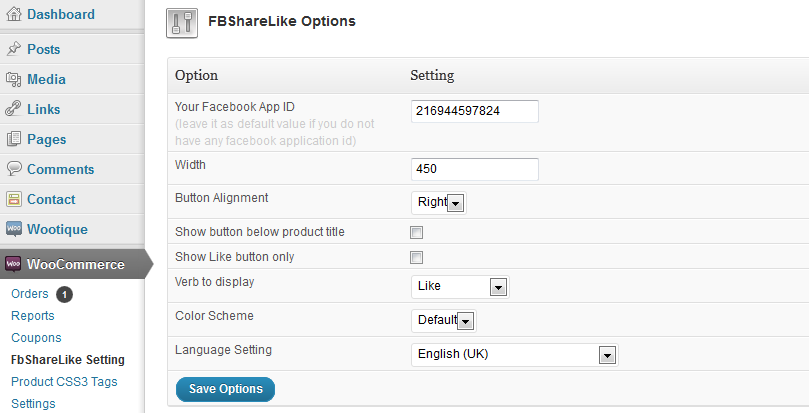
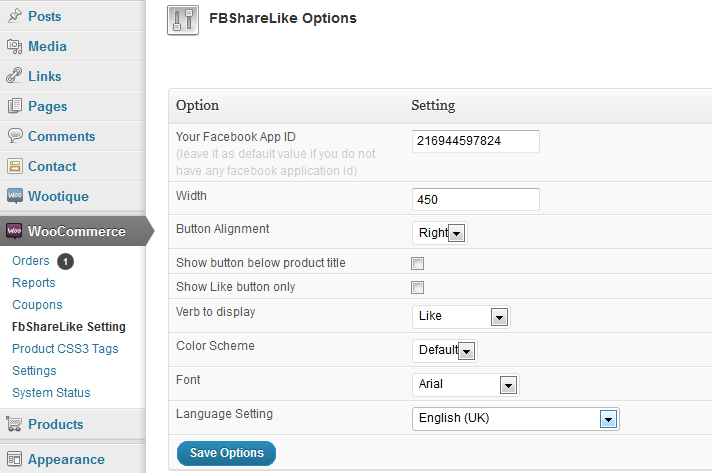
-Updated : updated "overflow: visible;" css for social-button-container -NEW : add custom font option for the setting page
git-svn-id: https://plugins.svn.wordpress.org/woocommerce-facebook-share-like-button/trunk@647046 b8457f37-d9ea-0310-8a92-e5e31aec5664

diff --git a/css/fbshare.css b/css/fbshare.css
@@ -1,5 +1,5 @@
 .social-button-container {
-    overflow: hidden; 
+    overflow: visible; 
 	clear: both;
 }
 

diff --git a/tsang_fbsharelike.php b/tsang_fbsharelike.php
@@ -4,7 +4,7 @@
 Plugin Name: WooCommerce Facebook Like Share Button
 Plugin URI: http://terrytsang.com/shop/shop/woocommerce-facebook-share-like-button/
 Description: Add a Facebook Like and Share button to your product pages
-Version: 2.0.6
+Version: 2.0.7
 Author: Terry Tsang
 Author URI: http://terrytsang.com
 */
@@ -40,6 +40,7 @@ if ( ! class_exists( 'TSANG_WooCommerce_FbShareLike_Button' ) ) {
 		var $language;
 		var $like_verbs;
 		var $color_schemes;
+		var $fonts;
 		var $get_pro_image;
 		
 		function __construct()
@@ -51,6 +52,7 @@ if ( ! class_exists( 'TSANG_WooCommerce_FbShareLike_Button' ) ) {
 			$this->like_verbs = array('like' => 'Like', 'recommend' => 'Recommend');
 			$this->color_schemes = array('default' => 'Default', 'dark' => 'Dark');
 			$this->button_aligns = array('left' => 'Left', 'right' => 'Right');
+			$this->fonts = array('default' => 'Default', 'arial' => 'Arial', 'lucida grande' => 'Lucida Grande', 'segoe ui' => 'Segeo UI', 'tahoma' => 'Tahoma', 'trebuchet ms' => 'Trebuchet MS', 'verdana' => 'Verdana');
 			
 			$this->includes();
 			
@@ -179,10 +181,12 @@ if ( ! class_exists( 'TSANG_WooCommerce_FbShareLike_Button' ) ) {
 			$option_like_verb 		= $this->options['custom_like_verb'];
 			$option_color_scheme 	= $this->options['custom_color_scheme'];
 			$option_button_align 	= $this->options['custom_button_align'];
+			$option_font 			= $this->options['custom_font'];
 			
 			$data_send_option 		= true;
 			$like_verb_default 		= '';
 			$color_scheme_default	= '';
+			$font_default			= '';
 			$button_align_default	= 'left';
 			
 			if( $option_show_only_like == 'yes' )
@@ -199,11 +203,14 @@ if ( ! class_exists( 'TSANG_WooCommerce_FbShareLike_Button' ) ) {
 			
 			if( $option_button_align == 'right' )
 				$button_align_default = 'right';
+			
+			if( $option_font != '' )
+				$font_default = ' data-font="'.$option_font.'"';
 				
 			if( $enabled_option == 'yes' ):
 			?>
 				<div class="social-button-container" style="display:block;float:<?php echo $button_align_default; ?>;">
-					<div class="social-button"><div class="fb-like" data-send="<?php echo $data_send_option; ?>" data-layout="button_count" data-width="<?php echo $option_facebook_width; ?>" data-show-faces="false"<?php echo $like_verb_default; ?><?php echo $color_scheme_default; ?>></div></div>
+					<div class="social-button"><div class="fb-like" data-send="<?php echo $data_send_option; ?>" data-layout="button_count" data-width="<?php echo $option_facebook_width; ?>" data-show-faces="false"<?php echo $like_verb_default; ?><?php echo $color_scheme_default; ?><?php echo $font_default; ?>></div></div>
 				</div>
 			<?php
 			endif;
@@ -260,6 +267,7 @@ if ( ! class_exists( 'TSANG_WooCommerce_FbShareLike_Button' ) ) {
 				$this->options['custom_color_scheme'] = ! isset( $_POST['custom_color_scheme'] ) ? 'default' : $_POST['custom_color_scheme'];
 				$this->options['custom_language_code'] = ! isset( $_POST['custom_language_code'] ) ? 'en_GB' : $_POST['custom_language_code'];
 				$this->options['custom_button_align'] = ! isset( $_POST['custom_button_align'] ) ? 'left' : $_POST['custom_button_align'];
+				$this->options['custom_font'] = ! isset( $_POST['custom_font'] ) ? '' : $_POST['custom_font'];
 				
 				update_option( $this->key, $this->options );
 				
@@ -275,6 +283,7 @@ if ( ! class_exists( 'TSANG_WooCommerce_FbShareLike_Button' ) ) {
 			$custom_color_scheme 		= $this->options['custom_color_scheme'];
 			$custom_language_code 		= $this->options['custom_language_code'];
 			$custom_button_align 		= $this->options['custom_button_align'];
+			$custom_font				= $this->options['custom_font'];
 			
 			if ( ! $custom_facebook_app_id ) 
 				$custom_facebook_app_id = '216944597824';
@@ -377,6 +386,20 @@ if ( ! class_exists( 'TSANG_WooCommerce_FbShareLike_Button' ) ) {
 									</td>
 								</tr>
 								<tr>
+									<td>Font</td>
+									<td>
+										<select name="custom_font">
+										<?php foreach($this->fonts as $font_option => $font_name): ?>
+											<?php if($font_option == $custom_font): ?>
+												<option selected="selected" value="<?php echo $font_option; ?>"><?php echo $font_name; ?></option>
+											<?php else: ?>
+												<option value="<?php echo $font_option; ?>"><?php echo $font_name; ?></option>
+											<?php endif; ?>
+										<?php endforeach; ?>
+										</select>
+									</td>
+								</tr>
+								<tr>
 									<td>Language Setting</td>
 									<td>
 										<select name="custom_language_code">
@@ -421,6 +444,11 @@ if ( ! class_exists( 'TSANG_WooCommerce_FbShareLike_Button' ) ) {
 					<ul style="list-style:dash">If you find this plugin helpful, you can:	
 						<li>- Write and review about it in your blog</li>
 						<li>- Rate it on <a href="http://wordpress.org/extend/plugins/woocommerce-facebook-share-like-button/" target="_blank">wordpress plugin page</a></li>
+						<li>- Share on your social media<br />
+						<a href="http://www.facebook.com/sharer.php?u=http://terrytsang.com/shop/shop/woocommerce-facebook-share-like-button/&amp;t=WooCommerce Facebook Share Like Button" title="Share this WooCommerce Facebook Share Like Button plugin on Facebook" target="_blank"><img src="<?php echo $this->plugin_url; ?>/images/social_facebook.png" alt="Share this WooCommerce Facebook Share Like Button plugin on Facebook"></a> 
+						<a href="http://twitthis.com/twit?url=http://terrytsang.com/shop/shop/woocommerce-facebook-share-like-button/" title="Tweet about WooCommerce Facebook Share Like Button plugin" target="_blank"><img src="<?php echo $this->plugin_url; ?>/images/social_twitter.png" alt="Tweet about WooCommerce Facebook Share Like Button plugin"></a>
+						<a href="http://linkedin.com/shareArticle?mini=true&amp;url=http://terrytsang.com/shop/shop/woocommerce-facebook-share-like-button/&amp;title=WooCommerce Facebook Share Like Button plugin" title="Share this WooCommerce Facebook Share Like Button plugin on LinkedIn" target="_blank"><img src="<?php echo $this->plugin_url; ?>/images/social_linkedin.png" alt="Share this WooCommerce Facebook Share Like Button plugin on LinkedIn"></a>
+						</li>
 						<li>- Or make a donation</li>
 					</ul>
 					
